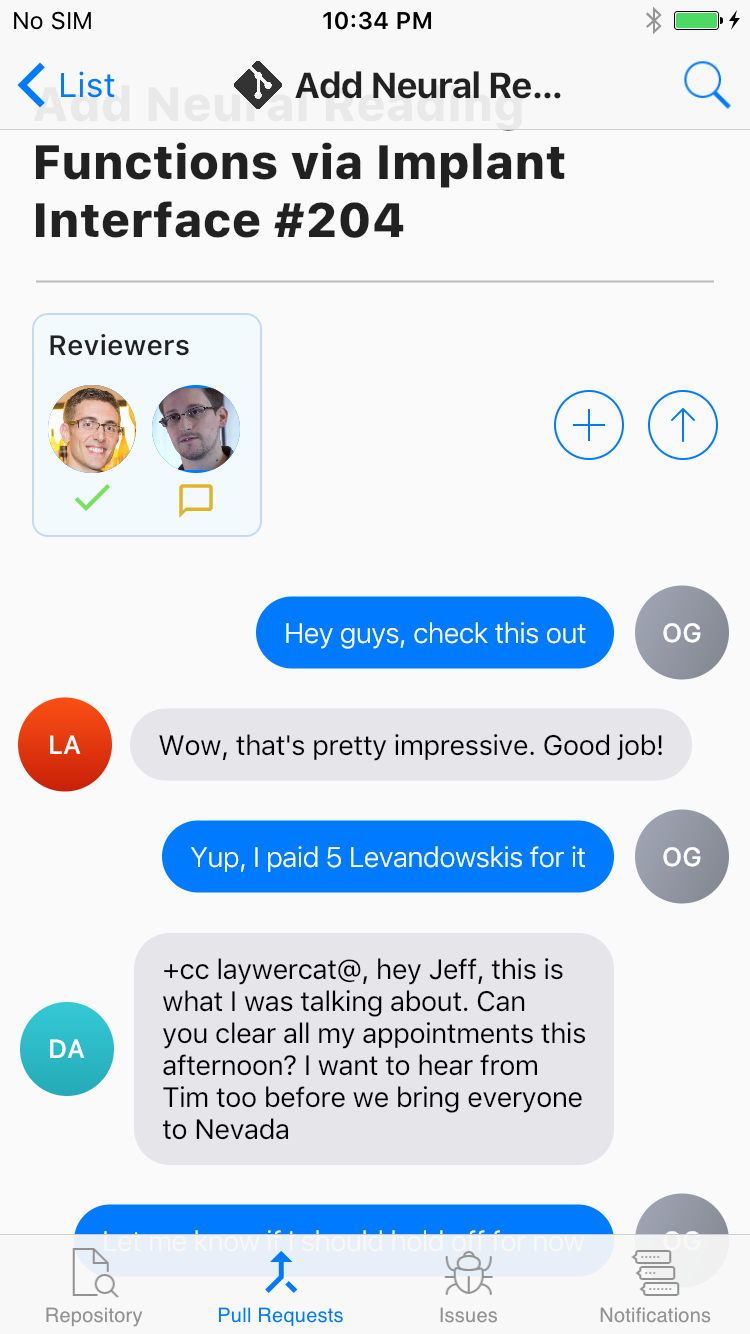
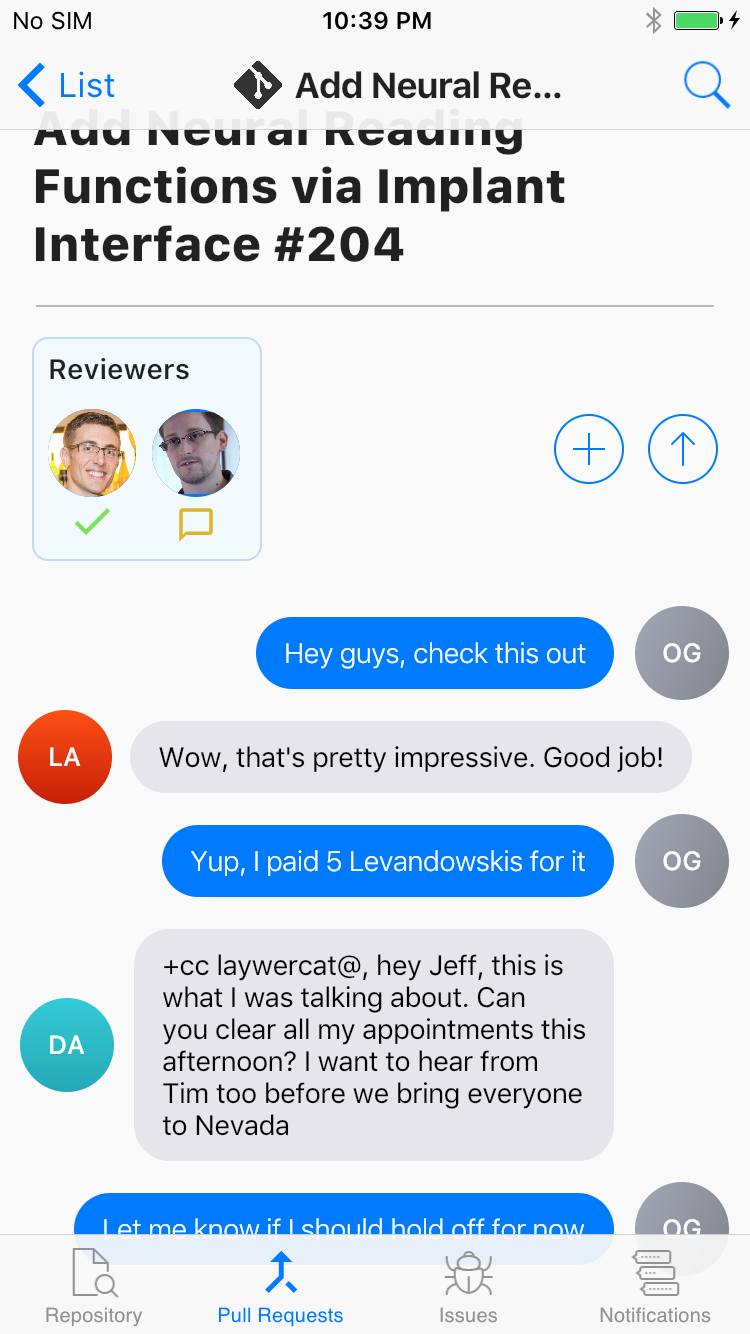
small tweaks

diff --git a/lib/main.dart b/lib/main.dart
@@ -183,7 +183,7 @@ List<Widget> buildComments() {
             borderRadius: const BorderRadius.all(const Radius.circular(18.0)),
             color: _blue,
           ),
-          margin: const EdgeInsets.symmetric(horizontal: 8.0, vertical: 10.0),
+          margin: const EdgeInsets.symmetric(horizontal: 8.0, vertical: 8.0),
           padding: const EdgeInsets.symmetric(horizontal: 14.0, vertical: 10.0),
           child: const Text(
             'Hey guys, check this out',
@@ -244,7 +244,7 @@ List<Widget> buildComments() {
             borderRadius: const BorderRadius.all(const Radius.circular(18.0)),
             color: const Color(0xFFE5E5EA),
           ),
-          margin: const EdgeInsets.symmetric(horizontal: 8.0, vertical: 10.0),
+          margin: const EdgeInsets.symmetric(horizontal: 8.0, vertical: 8.0),
           padding: const EdgeInsets.symmetric(horizontal: 14.0, vertical: 10.0),
           child: const Text(
             'Wow, that\'s pretty impressive. Good job!',
@@ -266,7 +266,7 @@ List<Widget> buildComments() {
             borderRadius: const BorderRadius.all(const Radius.circular(18.0)),
             color: _blue,
           ),
-          margin: const EdgeInsets.symmetric(horizontal: 8.0, vertical: 10.0),
+          margin: const EdgeInsets.symmetric(horizontal: 8.0, vertical: 8.0),
           padding: const EdgeInsets.symmetric(horizontal: 14.0, vertical: 10.0),
           child: const Text(
             'Yup, I paid 5 Levandowskis for it',
@@ -327,7 +327,7 @@ List<Widget> buildComments() {
             borderRadius: const BorderRadius.all(const Radius.circular(18.0)),
             color: const Color(0xFFE5E5EA),
           ),
-          margin: const EdgeInsets.symmetric(horizontal: 8.0, vertical: 10.0),
+          margin: const EdgeInsets.symmetric(horizontal: 8.0, vertical: 8.0),
           padding: const EdgeInsets.symmetric(horizontal: 14.0, vertical: 10.0),
           child: const Text(
             '+cc laywercat@, hey Jeff, this is\nwhat I was talking about. Can\nyou clear all my appointments this\nafternoon? I want to hear from\nTim too before we bring everyone\nto Nevada',
@@ -349,7 +349,7 @@ List<Widget> buildComments() {
             borderRadius: const BorderRadius.all(const Radius.circular(18.0)),
             color: _blue,
           ),
-          margin: const EdgeInsets.symmetric(horizontal: 8.0, vertical: 10.0),
+          margin: const EdgeInsets.symmetric(horizontal: 8.0, vertical: 8.0),
           padding: const EdgeInsets.symmetric(horizontal: 14.0, vertical: 10.0),
           child: const Text(
             'Let me know if I should hold off for now',
